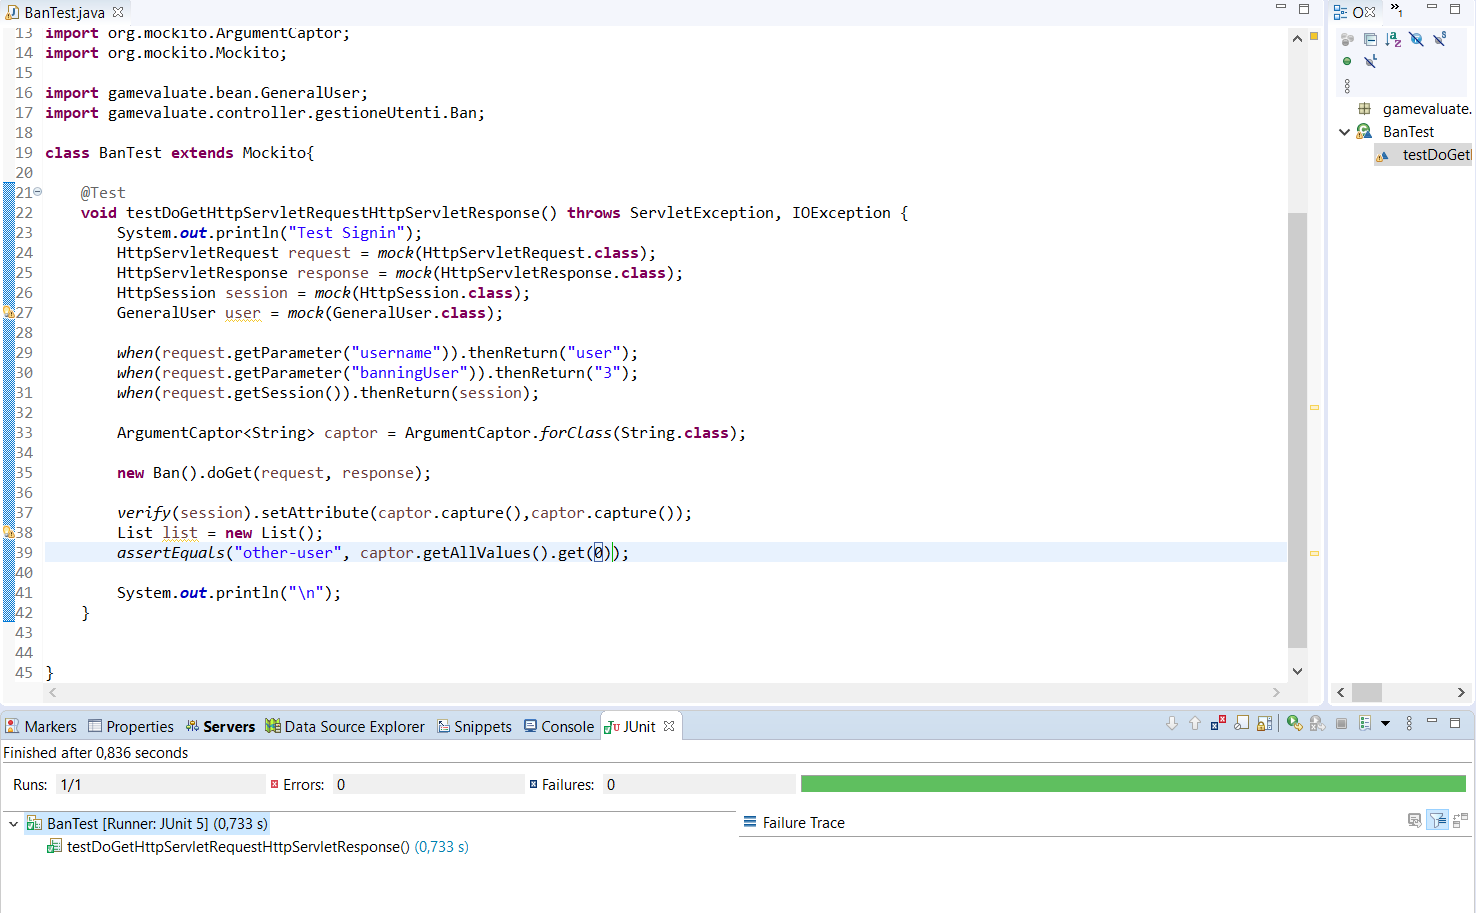
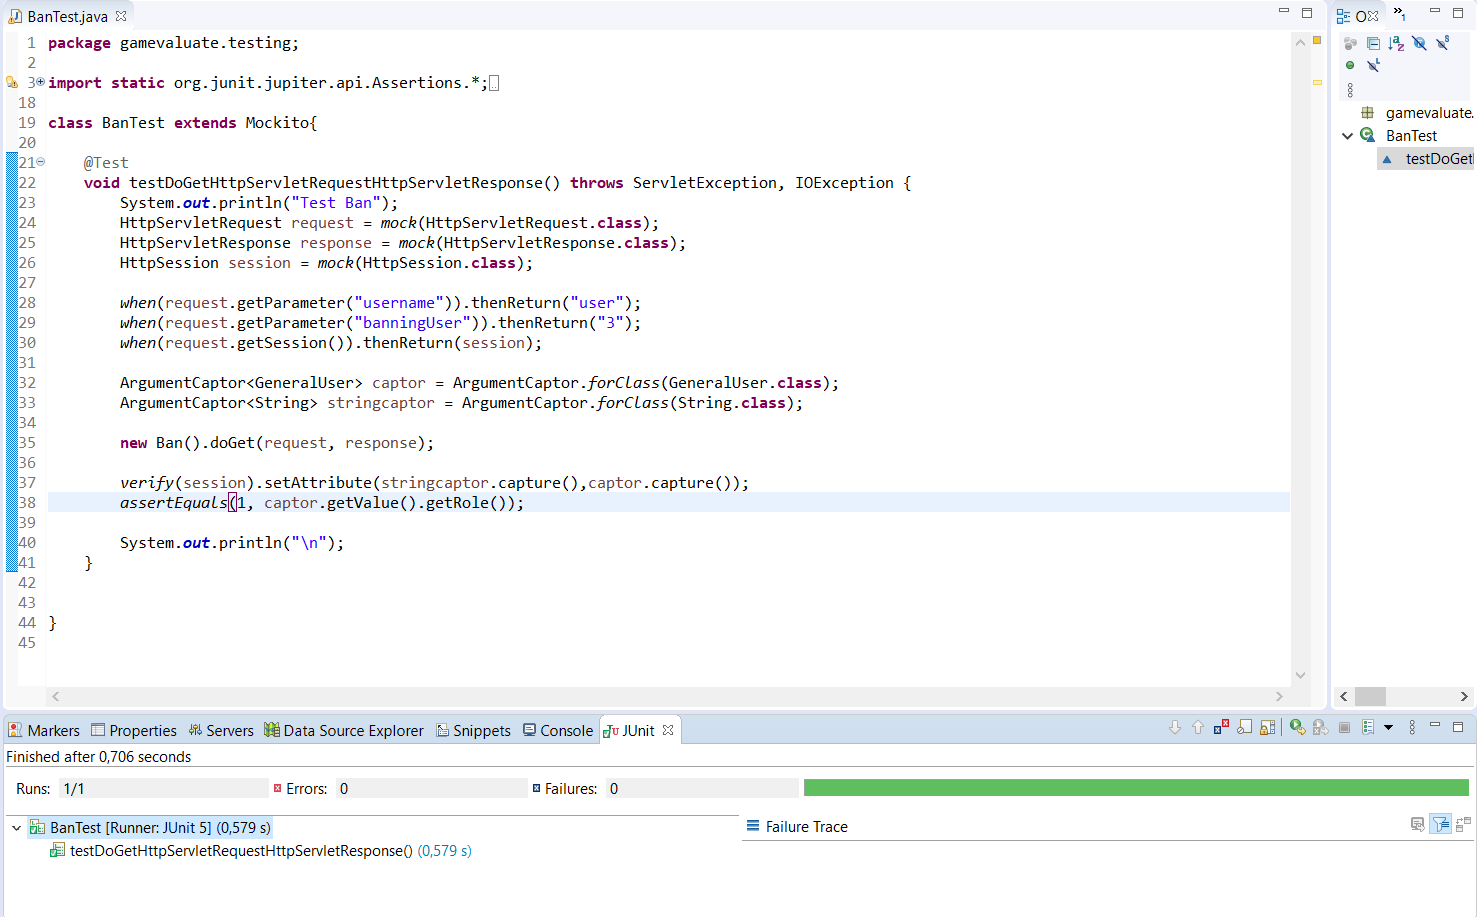
JUnit testing completato

Changed region(s): [[0.0, 0.0, 1.0, 1.0], [0.0935, 0.644, 0.2182, 0.6747], [0.4986, 0.8894, 0.5921, 0.92]]

diff --git a/Eclipse/Testing/VisualizzaUtenteTest.java b/Eclipse/Testing/VisualizzaUtenteTest.java
@@ -2,9 +2,9 @@ package gamevaluate.testing;
 
 import static org.junit.jupiter.api.Assertions.*;
 
-import java.awt.List;
 import java.io.IOException;
-
+import java.io.PrintWriter;
+import java.io.StringWriter;
 import javax.servlet.ServletException;
 import javax.servlet.http.HttpServletRequest;
 import javax.servlet.http.HttpServletResponse;
@@ -12,33 +12,30 @@ import javax.servlet.http.HttpSession;
 import org.junit.jupiter.api.Test;
 import org.mockito.ArgumentCaptor;
 import org.mockito.Mockito;
-
 import gamevaluate.bean.GeneralUser;
-import gamevaluate.controller.gestioneUtenti.Ban;
+import gamevaluate.controller.gestionericerca.VisualizzaUtente;
 
-class BanTest extends Mockito{
+class VisualizzaUtenteTest extends Mockito{
 
 	@Test
-	void testDoGetHttpServletRequestHttpServletResponse() throws ServletException, IOException {
-		System.out.println("Test Ban");
+	void testDoGetHttpServletRequestHttpServletResponse() throws IOException, ServletException {
+		System.out.println("Test VisualizzaUtente");
 		HttpServletRequest request = mock(HttpServletRequest.class);
 		HttpServletResponse response = mock(HttpServletResponse.class);
 		HttpSession session = mock(HttpSession.class);
+
 		
-		when(request.getParameter("username")).thenReturn("user");
-		when(request.getParameter("banningUser")).thenReturn("3");
+		when(request.getParameter("username")).thenReturn("admin");
 		when(request.getSession()).thenReturn(session);
 		
+		ArgumentCaptor<String> captorstring = ArgumentCaptor.forClass(String.class);
 		ArgumentCaptor<GeneralUser> captor = ArgumentCaptor.forClass(GeneralUser.class);
-		ArgumentCaptor<String> stringcaptor = ArgumentCaptor.forClass(String.class);
 		
-		new Ban().doGet(request, response);
 		
-		verify(session).setAttribute(stringcaptor.capture(),captor.capture());
-		assertEquals(1, captor.getValue().getRole());
+		new VisualizzaUtente().doGet(request, response);
 		
-		System.out.println("\n");
+		verify(session, times(3)).setAttribute(captorstring.capture(), captor.capture());
+		
+		assertEquals("admin", captor.getAllValues().get(0).getUsername());
 	}
-
-
 }

diff --git a/Eclipse/Testing/EliminaRecensioneTest.java b/Eclipse/Testing/EliminaRecensioneTest.java
@@ -1,0 +1,44 @@
+package gamevaluate.testing;
+
+import static org.junit.jupiter.api.Assertions.*;
+
+import java.io.IOException;
+
+import javax.servlet.ServletException;
+import javax.servlet.http.HttpServletRequest;
+import javax.servlet.http.HttpServletResponse;
+import javax.servlet.http.HttpSession;
+
+import org.junit.jupiter.api.Test;
+import org.mockito.ArgumentCaptor;
+import org.mockito.Mockito;
+
+import gamevaluate.controller.gestioneRecensioni.DelReview;
+
+class EliminaRecensioneTest extends Mockito{
+
+	@Test
+	void testDoPostHttpServletRequestHttpServletResponse() throws ServletException, IOException {
+		System.out.println("Test DelReview");
+		
+		HttpServletRequest request = mock(HttpServletRequest.class);
+		HttpServletResponse response = mock(HttpServletResponse.class);
+		HttpSession session = mock(HttpSession.class);
+		
+		when(request.getParameter("username")).thenReturn("admin");
+		when(request.getParameter("idGioco")).thenReturn("10");
+		when(request.getParameter("data")).thenReturn("2020-02-04 21:01:33");
+		when(request.getParameter("returnTo")).thenReturn("/GamEvaluate/presentation/user-info.jsp");
+		when(request.getSession()).thenReturn(session);
+	
+		ArgumentCaptor<String> captor1 = ArgumentCaptor.forClass(String.class);
+		ArgumentCaptor<String> captor2 = ArgumentCaptor.forClass(String.class);
+		
+		new DelReview().doPost(request, response);
+		
+		verify(session, times(2)).setAttribute(captor1.capture(), captor2.capture());
+		
+		assertEquals("Recensione eliminata", captor2.getAllValues().get(1));
+	}
+
+}

diff --git a/Eclipse/Testing/AggiungiRecensioneTest.java b/Eclipse/Testing/AggiungiRecensioneTest.java
@@ -1,0 +1,44 @@
+package gamevaluate.testing;
+
+import static org.junit.jupiter.api.Assertions.*;
+
+import java.io.IOException;
+
+import javax.servlet.ServletException;
+import javax.servlet.http.HttpServletRequest;
+import javax.servlet.http.HttpServletResponse;
+import javax.servlet.http.HttpSession;
+
+import org.junit.jupiter.api.Test;
+import org.mockito.ArgumentCaptor;
+import org.mockito.Mockito;
+
+import gamevaluate.bean.GeneralUser;
+import gamevaluate.controller.gestioneRecensioni.AddReview;
+
+class AggiungiRecensioneTest extends Mockito {
+
+	@Test
+	void testDoPostHttpServletRequestHttpServletResponse() throws ServletException, IOException {
+		System.out.println("Test AddReview");
+		
+		HttpServletRequest request = mock(HttpServletRequest.class);
+		HttpServletResponse response = mock(HttpServletResponse.class);
+		HttpSession session = mock(HttpSession.class);
+		
+		when(request.getParameter("testo")).thenReturn("Testo Recensione");
+		when(request.getParameter("idGioco")).thenReturn("10");
+		GeneralUser user = new GeneralUser();
+		user.setUsername("admin");
+		when(session.getAttribute("user")).thenReturn(user);
+		when(request.getSession()).thenReturn(session);
+	
+		ArgumentCaptor<String> captor = ArgumentCaptor.forClass(String.class);
+		
+		new AddReview().doPost(request, response);
+		
+		verify(session).setAttribute(captor.capture(), captor.capture());
+		
+		assertEquals("Recensione inserita", captor.getAllValues().get(1));
+	}
+}

diff --git a/Eclipse/Testing/VisuallizzaGiocoTest.java b/Eclipse/Testing/VisuallizzaGiocoTest.java
@@ -1,0 +1,46 @@
+package gamevaluate.testing;
+
+import static org.junit.jupiter.api.Assertions.*;
+
+import java.io.IOException;
+import java.io.PrintWriter;
+import java.io.StringWriter;
+
+import javax.servlet.ServletException;
+import javax.servlet.http.HttpServletRequest;
+import javax.servlet.http.HttpServletResponse;
+import javax.servlet.http.HttpSession;
+
+import org.junit.jupiter.api.Test;
+import org.mockito.Mockito;
+
+import gamevaluate.bean.GeneralUser;
+import gamevaluate.controller.gestionericerca.VisualizzaGioco;
+
+class VisuallizzaGiocoTest extends Mockito{
+
+	@Test
+	void testDoGetHttpServletRequestHttpServletResponse() throws IOException, ServletException {
+		System.out.println("Test VisualizzaGioco");
+		HttpServletRequest request = mock(HttpServletRequest.class);
+		HttpServletResponse response = mock(HttpServletResponse.class);
+		HttpSession session = mock(HttpSession.class);
+
+		
+		when(request.getParameter("gioco")).thenReturn("10");
+		GeneralUser user = new GeneralUser();
+		user.setUsername("admin");
+		when(session.getAttribute("user")).thenReturn(user);
+		when(request.getSession()).thenReturn(session);
+		
+		StringWriter writer = new StringWriter();
+		PrintWriter out = new PrintWriter(writer);
+		
+		when(response.getWriter()).thenReturn(out);
+		
+		new VisualizzaGioco().doGet(request, response);
+		
+		assertTrue(writer.toString().contains("\"id\":10,\"nome\":\"Monster Hunter\""));
+	}
+
+}

diff --git a/Eclipse/Testing/AggiungiGenereTest.java b/Eclipse/Testing/AggiungiGenereTest.java
@@ -1,0 +1,40 @@
+package gamevaluate.testing;
+
+import static org.junit.jupiter.api.Assertions.*;
+
+import java.io.IOException;
+
+import javax.servlet.ServletException;
+import javax.servlet.http.HttpServletRequest;
+import javax.servlet.http.HttpServletResponse;
+import javax.servlet.http.HttpSession;
+
+import org.junit.jupiter.api.Test;
+import org.mockito.ArgumentCaptor;
+import org.mockito.Mockito;
+
+import gamevaluate.controller.gestioneGeneri.AddGenre;
+
+class AggiungiGenereTest extends Mockito{
+
+	@Test
+	void testDoPostHttpServletRequestHttpServletResponse() throws ServletException, IOException {
+		System.out.println("Test AddGenre");
+		
+		HttpServletRequest request = mock(HttpServletRequest.class);
+		HttpServletResponse response = mock(HttpServletResponse.class);
+		HttpSession session = mock(HttpSession.class);
+		
+		when(request.getParameter("nome")).thenReturn("NewGenre");
+		when(request.getParameter("descrizione")).thenReturn("GenreDescription");
+		when(request.getSession()).thenReturn(session);
+	
+		ArgumentCaptor<String> captor = ArgumentCaptor.forClass(String.class);
+		
+		new AddGenre().doPost(request, response);
+		
+		verify(session).setAttribute(captor.capture(), captor.capture());
+		
+		assertEquals("Genere Aggiunto", captor.getAllValues().get(1));
+	}
+}

diff --git a/Eclipse/Testing/EliminaPiattaformaTest.java b/Eclipse/Testing/EliminaPiattaformaTest.java
@@ -1,0 +1,39 @@
+package gamevaluate.testing;
+
+import static org.junit.jupiter.api.Assertions.*;
+
+import java.io.IOException;
+
+import javax.servlet.ServletException;
+import javax.servlet.http.HttpServletRequest;
+import javax.servlet.http.HttpServletResponse;
+import javax.servlet.http.HttpSession;
+
+import org.junit.jupiter.api.Test;
+import org.mockito.ArgumentCaptor;
+import org.mockito.Mockito;
+import gamevaluate.controller.gestionePiattaforme.DelPlatform;
+
+class EliminaPiattaformaTest extends Mockito{
+
+	@Test
+	void testDoPostHttpServletRequestHttpServletResponse() throws ServletException, IOException {
+		System.out.println("Test DelPlatform");
+		
+		HttpServletRequest request = mock(HttpServletRequest.class);
+		HttpServletResponse response = mock(HttpServletResponse.class);
+		HttpSession session = mock(HttpSession.class);
+		
+		when(request.getParameter("nome")).thenReturn("NewPlatform");
+		when(request.getSession()).thenReturn(session);
+	
+		ArgumentCaptor<String> captor = ArgumentCaptor.forClass(String.class);
+		
+		new DelPlatform().doPost(request, response);
+		
+		verify(session).setAttribute(captor.capture(), captor.capture());
+		
+		assertEquals("Piattaforma eliminata", captor.getAllValues().get(1));
+	}
+
+}

diff --git a/Eclipse/Testing/AggiungiPiattaformaTest.java b/Eclipse/Testing/AggiungiPiattaformaTest.java
@@ -1,0 +1,38 @@
+package gamevaluate.testing;
+
+import static org.junit.jupiter.api.Assertions.*;
+
+import java.io.IOException;
+
+import javax.servlet.ServletException;
+import javax.servlet.http.HttpServletRequest;
+import javax.servlet.http.HttpServletResponse;
+import javax.servlet.http.HttpSession;
+
+import org.junit.jupiter.api.Test;
+import org.mockito.ArgumentCaptor;
+import org.mockito.Mockito;
+import gamevaluate.controller.gestionePiattaforme.AddPlatform;
+
+class AggiungiPiattaformaTest extends Mockito{
+
+	@Test
+	void testDoPostHttpServletRequestHttpServletResponse() throws ServletException, IOException {
+		System.out.println("Test AddPlatform");
+		
+		HttpServletRequest request = mock(HttpServletRequest.class);
+		HttpServletResponse response = mock(HttpServletResponse.class);
+		HttpSession session = mock(HttpSession.class);
+		
+		when(request.getParameter("nome")).thenReturn("NewPlatform");
+		when(request.getSession()).thenReturn(session);
+	
+		ArgumentCaptor<String> captor = ArgumentCaptor.forClass(String.class);
+		
+		new AddPlatform().doPost(request, response);
+		
+		verify(session).setAttribute(captor.capture(), captor.capture());
+		
+		assertEquals("Piattaforma Aggiunta", captor.getAllValues().get(1));
+	}
+}

diff --git a/Eclipse/Testing/EliminaGenere.java b/Eclipse/Testing/EliminaGenere.java
@@ -1,0 +1,39 @@
+package gamevaluate.testing;
+
+import static org.junit.jupiter.api.Assertions.*;
+
+import java.io.IOException;
+
+import javax.servlet.ServletException;
+import javax.servlet.http.HttpServletRequest;
+import javax.servlet.http.HttpServletResponse;
+import javax.servlet.http.HttpSession;
+
+import org.junit.jupiter.api.Test;
+import org.mockito.ArgumentCaptor;
+import org.mockito.Mockito;
+
+import gamevaluate.controller.gestioneGeneri.DelGenre;
+
+class EliminaGenere extends Mockito{
+
+	@Test
+	void testDoPostHttpServletRequestHttpServletResponse() throws ServletException, IOException {
+		System.out.println("Test DelGenre");
+		
+		HttpServletRequest request = mock(HttpServletRequest.class);
+		HttpServletResponse response = mock(HttpServletResponse.class);
+		HttpSession session = mock(HttpSession.class);
+		
+		when(request.getParameter("nome")).thenReturn("NewGenre");
+		when(request.getSession()).thenReturn(session);
+	
+		ArgumentCaptor<String> captor = ArgumentCaptor.forClass(String.class);
+		
+		new DelGenre().doPost(request, response);
+		
+		verify(session).setAttribute(captor.capture(), captor.capture());
+		
+		assertEquals("Genere eliminato", captor.getAllValues().get(1));
+	}
+}
